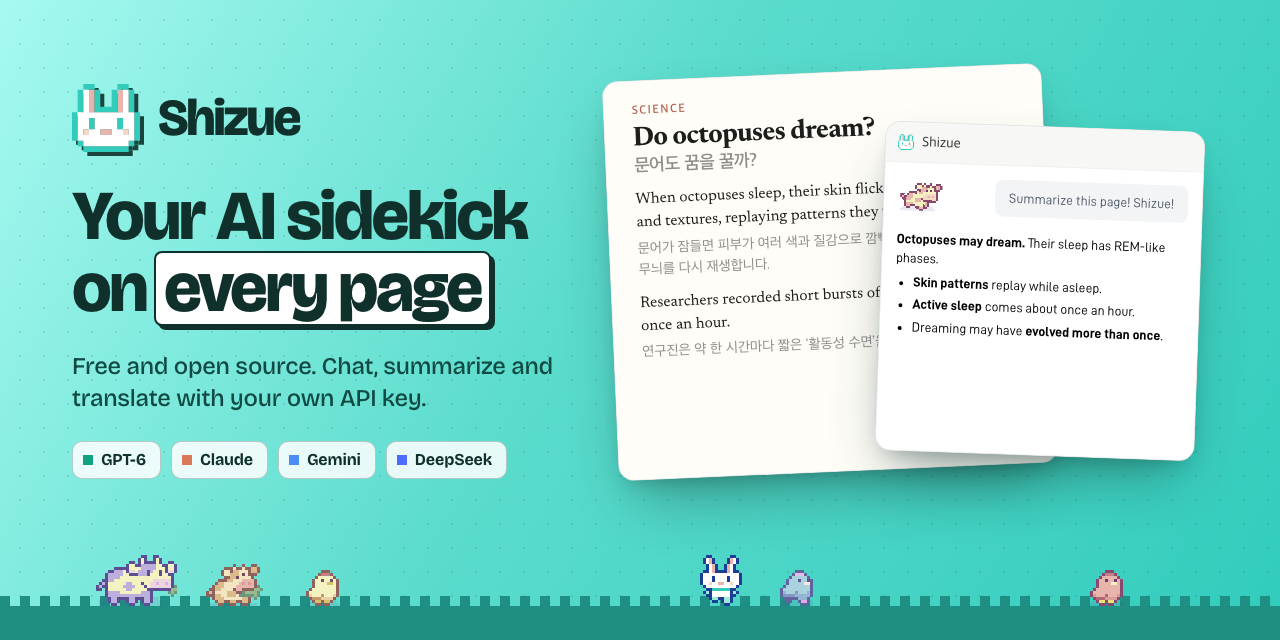
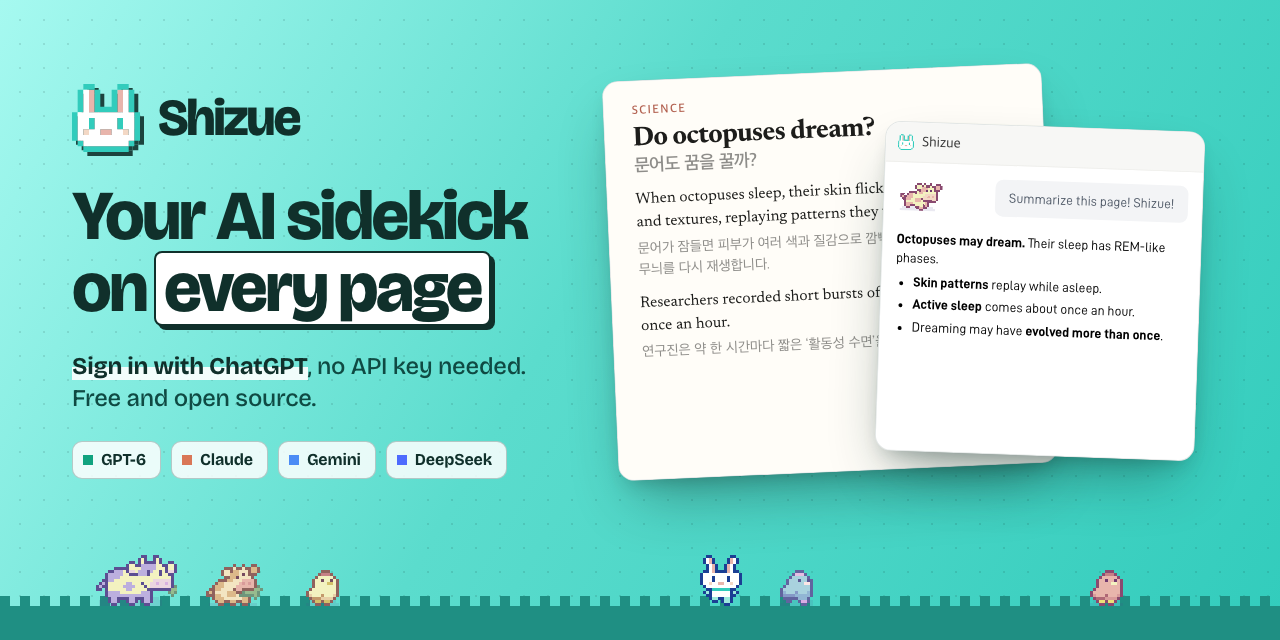
docs: shizue.net과 GitHub 소셜 미리보기에 ChatGPT 로그인 소개
README·스토어 설명처럼 ChatGPT 로그인을 앞에 내세운다.
- 사이트 23개 언어: hero 소개문에 "ChatGPT로 로그인하면 API 키 없이"를
  제목 강조와 같은 형광펜으로 넣고, FAQ 첫 질문으로 ChatGPT 구독 사용을
  추가했다. 검색·공유 설명문, 무료·개인정보 카드, 무료 FAQ도 맞췄다.
  문구는 desc/<lang>.md와 확장 UI 표현을 따랐다.
- GitHub 소셜 미리보기(사이트 og:image): 부제를 "Sign in with ChatGPT,
  no API key needed. Free and open source."로 바꿨다.

Changed region(s): [[0.0312, 0.5625, 0.4375, 0.6562]]

diff --git a/store/src/github-social-1280x640.html b/store/src/github-social-1280x640.html
@@ -22,6 +22,8 @@
   .headline { font-size: 70px; margin-top: 30px; }
   .headline .w { background: #fff; padding: 0 8px; margin-left: -4px; box-shadow: 4px 4px 0 var(--ink); border: 2px solid var(--ink); border-radius: 8px; display: inline-block; line-height: 1.02; }
   .sub { font-size: 24px; color: #0f4a43; margin-top: 24px; }
+  /* Marked like the hero lede on shizue.net; white, because mint disappears into the background. */
+  .sub b { font-weight: 700; color: var(--ink); background: linear-gradient(transparent 55%, rgba(255, 255, 255, 0.9) 55%); }
   .chips { margin-top: 26px; }
   .chip { background: rgba(255, 255, 255, 0.85); border-color: rgba(16, 48, 43, 0.25); }
 
@@ -51,7 +53,7 @@
   <div class="left">
     <div class="brand"><img src="../../src/public/icon.svg"><span>Shizue</span></div>
     <h1 class="headline">Your AI sidekick<br>on <span class="w">every page</span></h1>
-    <p class="sub">Free and open source. Chat, summarize and translate with your own API key.</p>
+    <p class="sub"><b>Sign in with ChatGPT</b>, no API key needed.<br>Free and open source.</p>
     <div class="chips">
       <span class="chip"><i style="background:#10a37f"></i>GPT-6</span>
       <span class="chip"><i style="background:#d97757"></i>Claude</span>

diff --git a/site/index.html b/site/index.html
@@ -108,6 +108,8 @@
   h1 { font: 800 clamp(40px, 6vw, 68px)/1.02 var(--head); letter-spacing: -0.04em; margin: 20px 0 18px; }
   h1 .w { background: var(--mint-2); padding: 0 6px; border-radius: 6px; }
   .lede { font-size: 19px; color: var(--ink-2); max-width: 480px; }
+  /* Sign in with ChatGPT: marked like the h1 highlight, and the mark follows the text across line breaks. */
+  .lede b { color: var(--ink); background: linear-gradient(transparent 55%, var(--mint-2) 55%); -webkit-box-decoration-break: clone; box-decoration-break: clone; }
   .ctas { display: flex; flex-wrap: wrap; gap: 14px; margin-top: 30px; }
   .proof { display: flex; flex-wrap: wrap; gap: 8px; margin-top: 22px; }
   .shot { border-radius: 16px; overflow: hidden; border: 1px solid rgba(16, 48, 43, .14); box-shadow: 0 30px 60px -20px rgba(16, 48, 43, .4); }
@@ -209,6 +211,10 @@
 
   <section id="faq" class="faq">
     <h2>{{faq_title}}</h2>
+    <details>
+      <summary>{{faq_signin_q}}</summary>
+      <p>{{faq_signin_a}}</p>
+    </details>
     <details>
       <summary>{{faq_free_q}}</summary>
       <p>{{faq_free_a}}</p>
